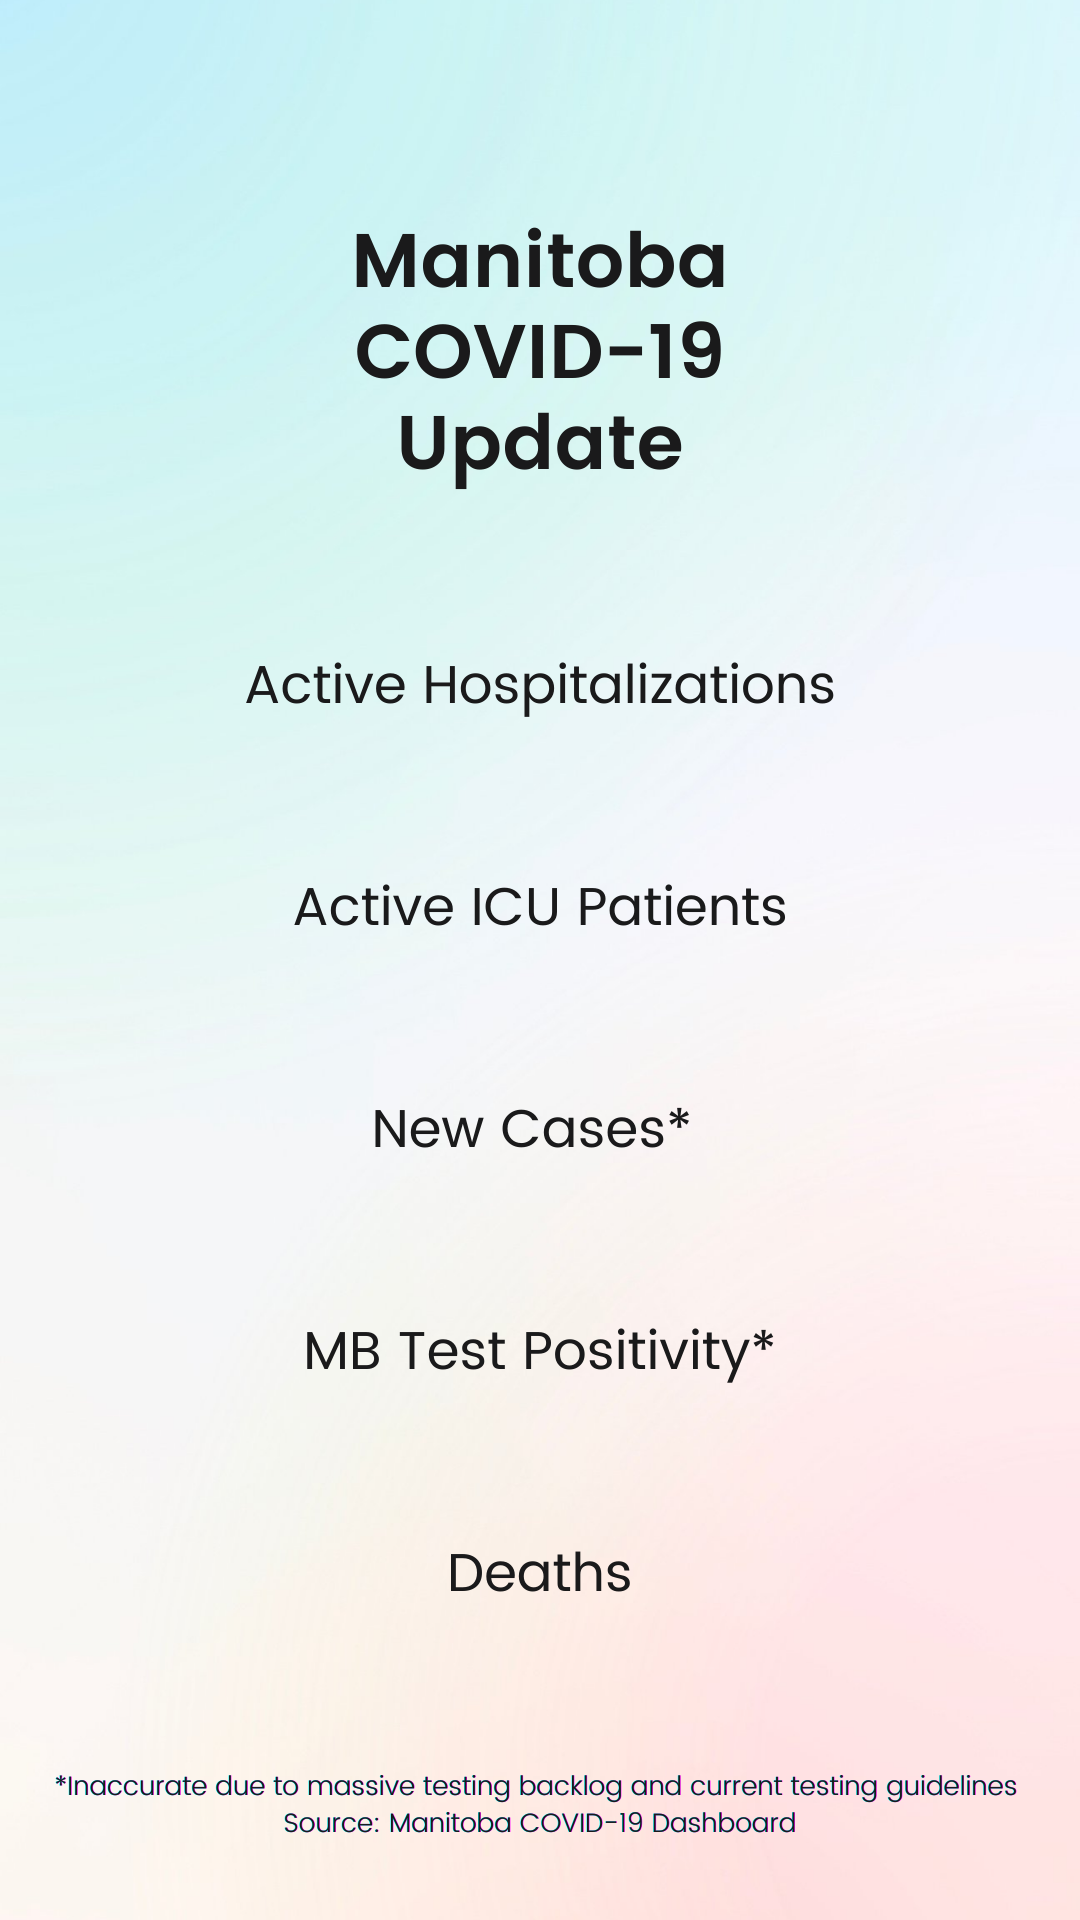
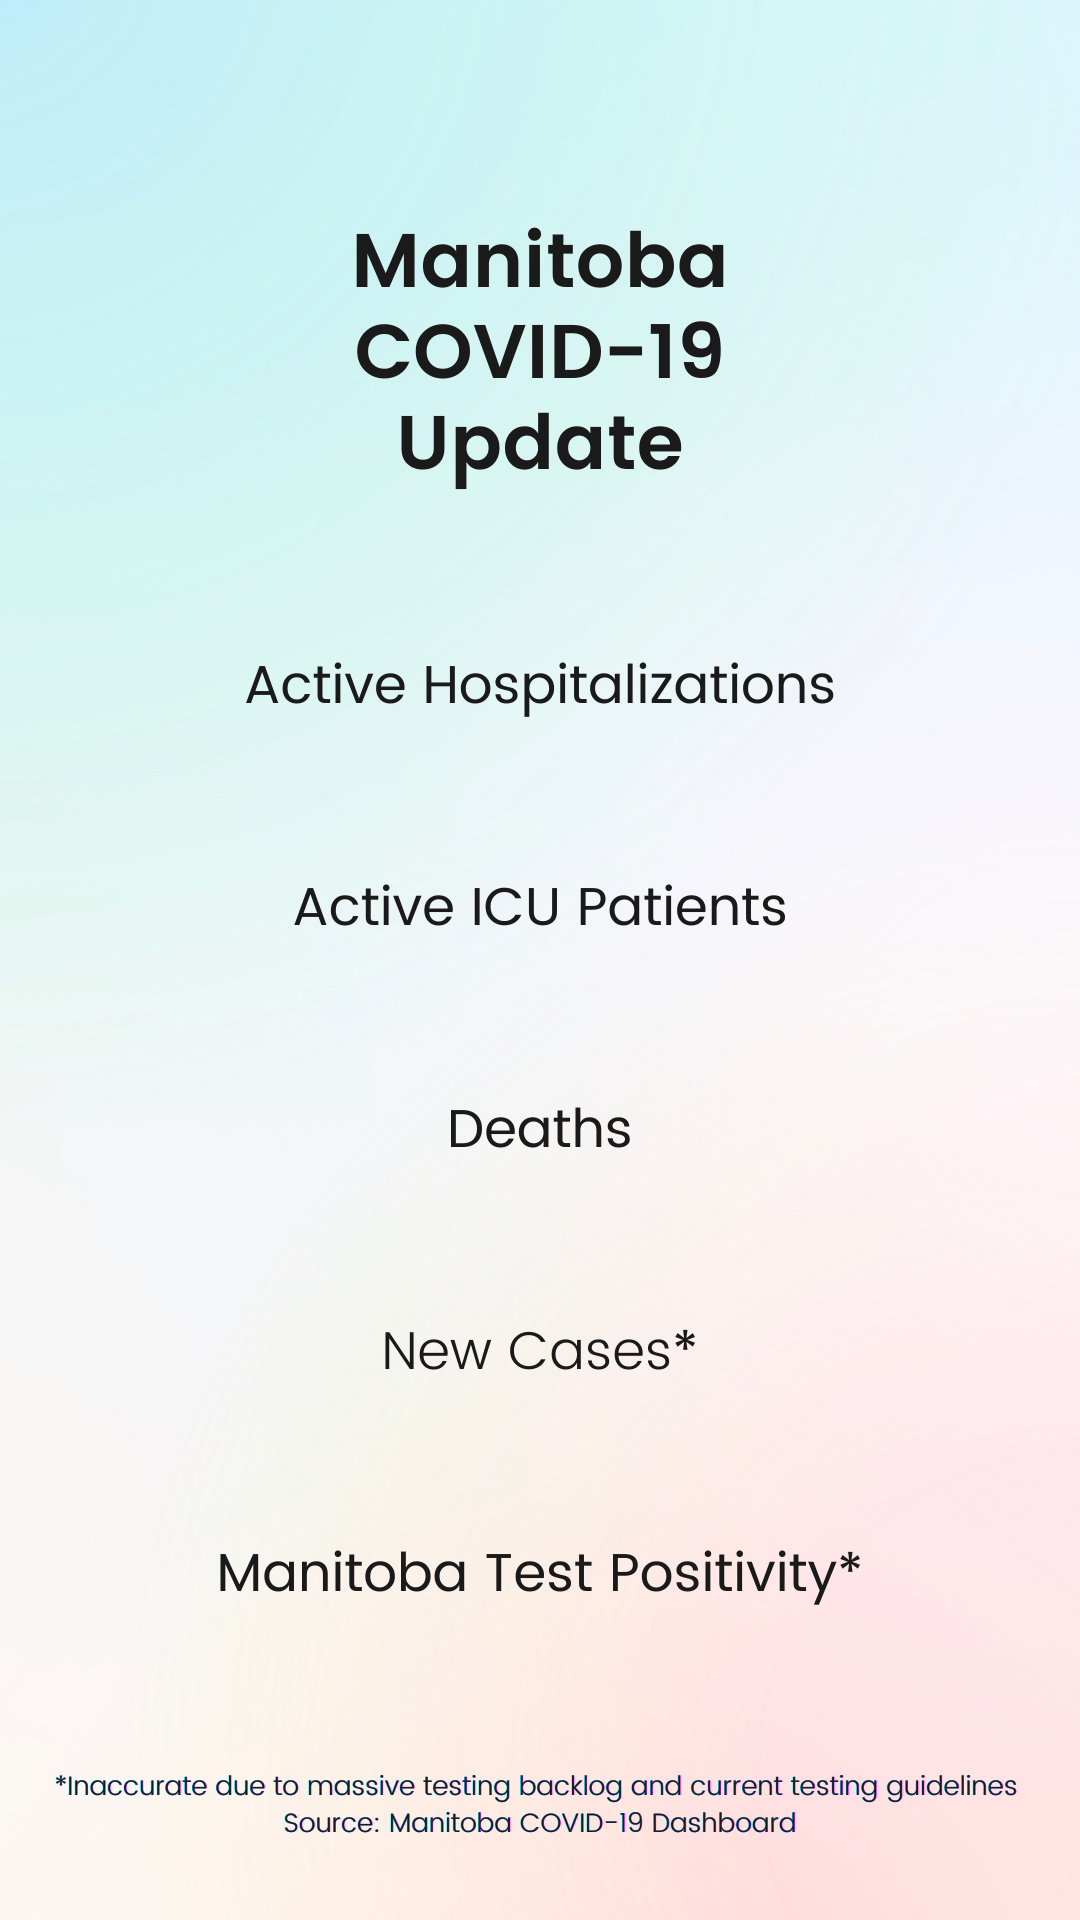
Update templates and data presented

Changed region(s): [[0.1833, 0.8125, 0.7944, 0.8438], [0.275, 0.6875, 0.7028, 0.7188], [0.3361, 0.5625, 0.6417, 0.625]]

diff --git a/src/services/image.py b/src/services/image.py
@@ -19,9 +19,9 @@ class ImageService:
         messages = [
             str('Total: {:,}'.format(self.data["Active_Hospitalizations"])) if new_hosp is None else str('New: {:,} / Total: {:,}'.format(new_hosp, self.data["Active_Hospitalizations"])),
             str('Total: {:,}'.format(self.data["Active_ICU_Patients"])) if new_icu is None else str('New: {:,} / Total: {:,}'.format(new_icu, self.data["Active_ICU_Patients"])),
+            str('Total: {:,}'.format(self.data["Deaths"])) if new_deaths is None else str('New: {:,} / Total: {:,}'.format(new_deaths, self.data["Deaths"])),
             str('{:,}'.format(self.data["New_Cases"])),
-            str('{:,}%'.format(self.data["Positivity_Rate"])),
-            str('Total: {:,}'.format(self.data["Deaths"])) if new_deaths is None else str('New: {:,} / Total: {:,}'.format(new_deaths, self.data["Deaths"]))
+            str('{:,}%'.format(self.data["Positivity_Rate"]))
         ]
         self.__write_data(messages)
         return self.image
@@ -47,7 +47,7 @@ class ImageService:
         self.width, self.height = self.image.size
         self.draw = ImageDraw.Draw(self.image)
         messages = [
-            str('{:,}'.format(self.data["Total_Doses_Administered"])),
+            str('{:,}'.format(self.data["Daily_Tests"])),
             str('{:,}'.format(self.data["Doses_Scheduled_for_Today"])),
             str('{:,}% (12+) / {:,}% (5+)'.format(self.data["Per_cent_Partially_Immunized_12"], self.data["Per_cent_Partially_Immunized_5"])),
             str('{:,}% (12+) / {:,}% (5+)'.format(self.data["Per_cent_Fully_Immunized_12"], self.data["Per_cent_Fully_Immunized_5"])),
